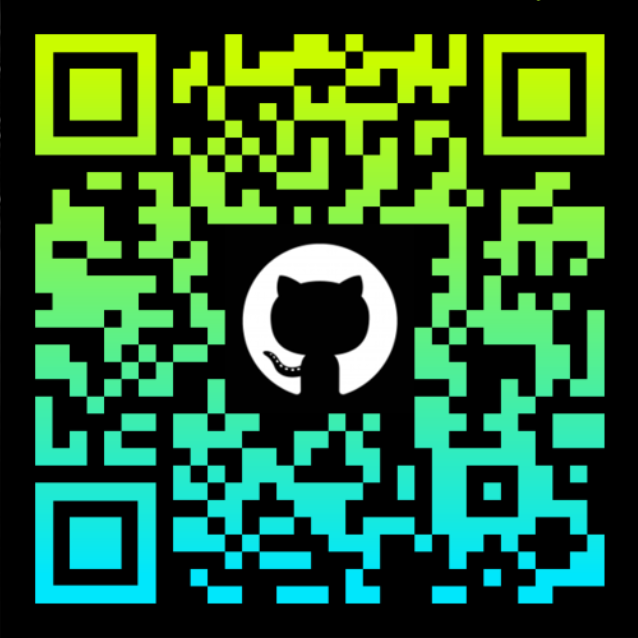
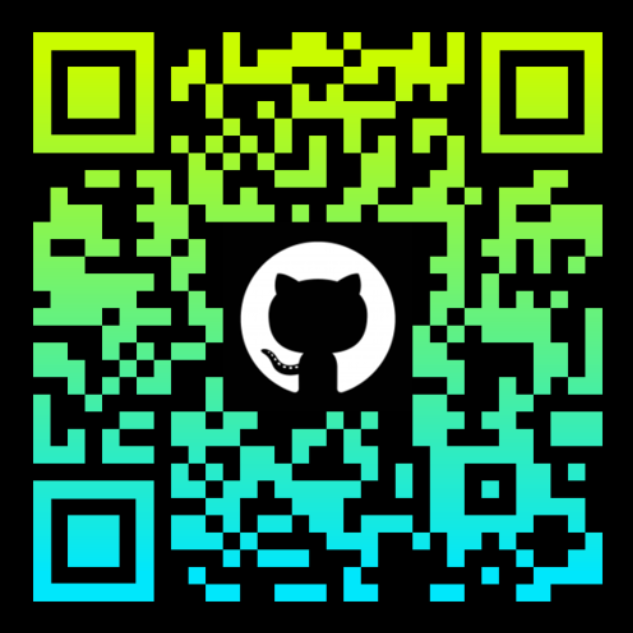
change repo qr code image

diff --git a/ru/PITCHME.md b/ru/PITCHME.md
@@ -30,7 +30,7 @@
 
 ---?code=sodium-store/src/main/run/sodium-store.json&lang=json&title=@fa[file-code-o] JSON Configuration File
 
----?image=assets/repo_qr_code.png&position=bottom 1px right 1px&size=479px 479px
+---?image=assets/repo_qr_code.png&position=bottom 1px right 1px&size=633px 633px
 ## @fa[question] Мёрдж, комит, бранч, ревёрт
 
 @ul
@@ -40,6 +40,9 @@
 <br>
 
 - Это Git, сэр!
+
+<br>
+
 - QR CODE для репозитория @fa[long-arrow-right]
 
 @ulend
